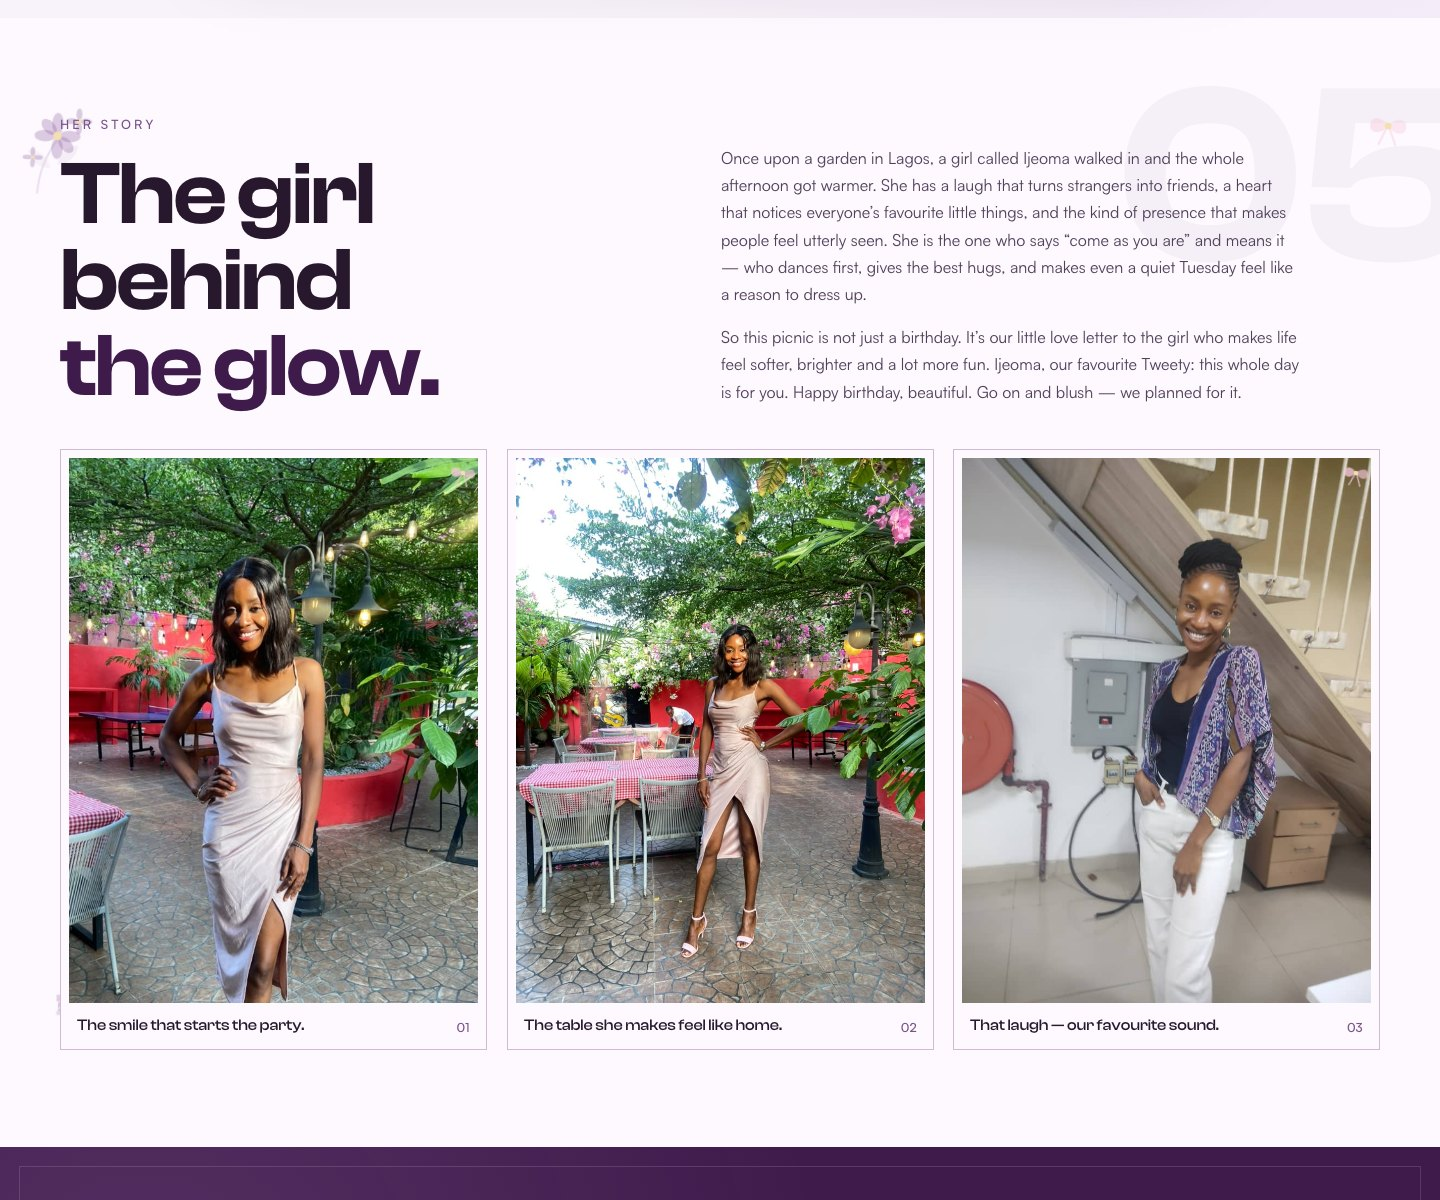
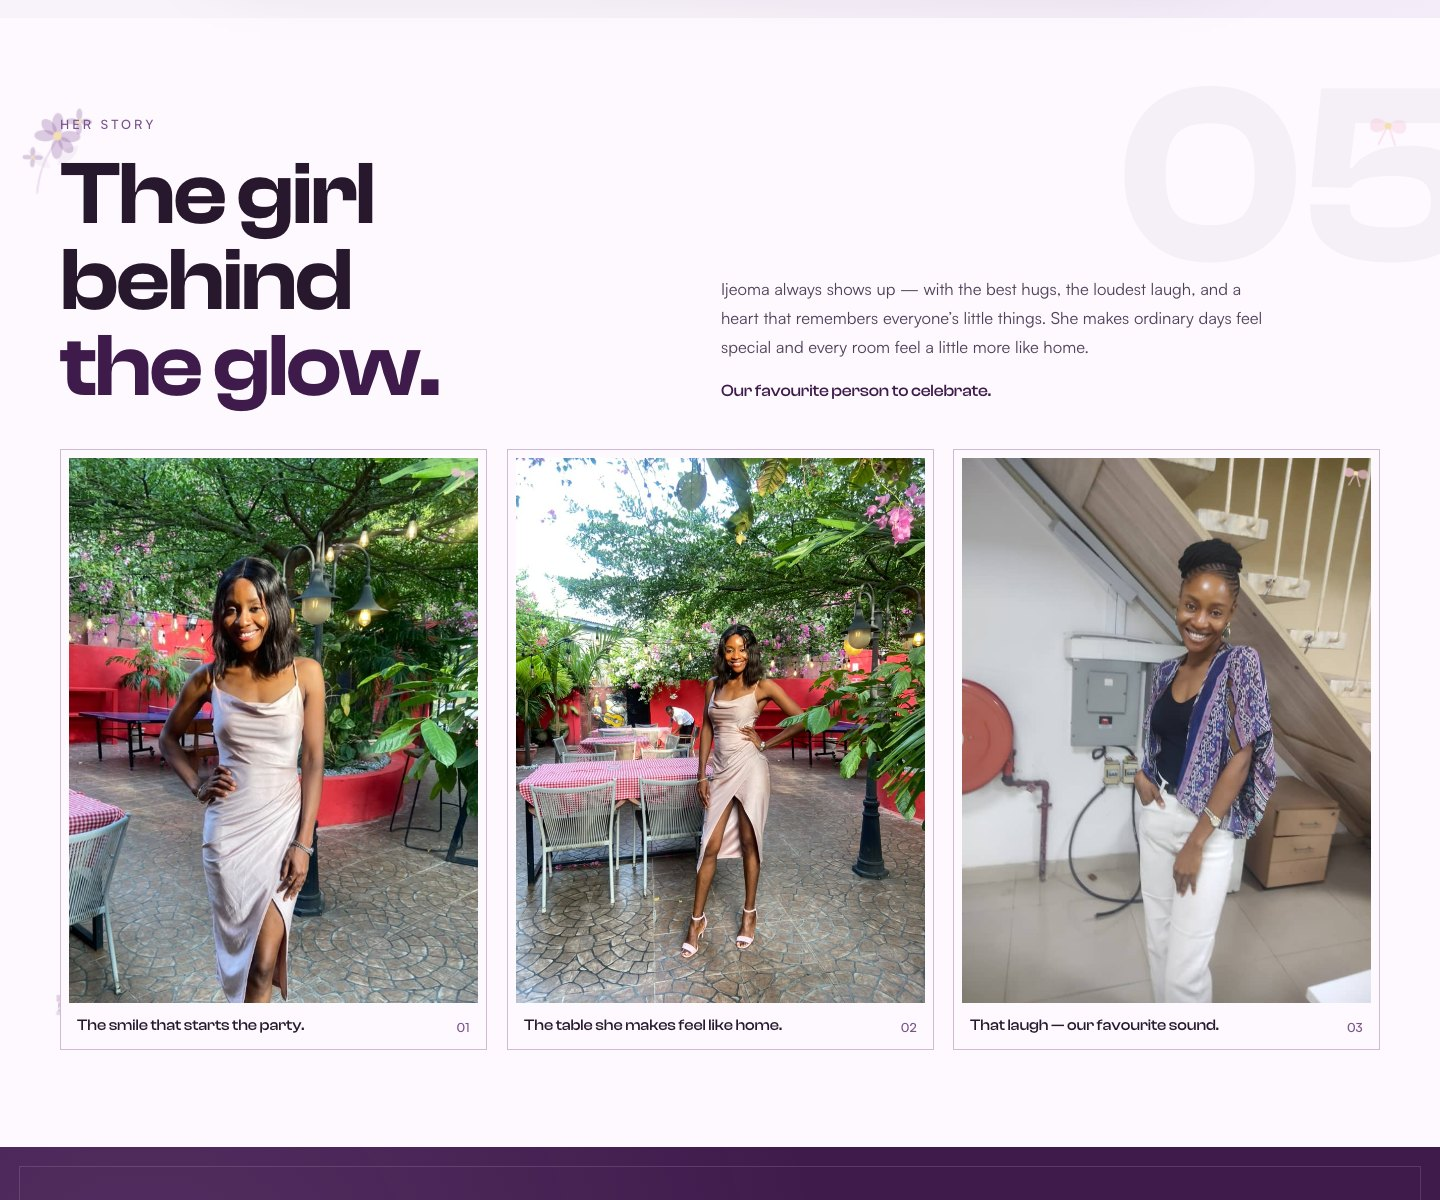
Shorten story to a few cute attributes

Changed region(s): [[0.5, 0.1233, 0.9062, 0.3392]]

diff --git a/src/components/Story.jsx b/src/components/Story.jsx
@@ -39,20 +39,14 @@ export default function Story() {
               <span className="text-plum">the glow.</span>
             </h2>
           </Reveal>
-          <Reveal as="div" delay={100} className="max-w-[580px] pb-1">
-            <p className="text-[1rem] leading-[1.7] text-ink-soft">
-              Once upon a garden in Lagos, a girl called Ijeoma walked in and the
-              whole afternoon got warmer. She has a laugh that turns strangers into
-              friends, a heart that notices everyone’s favourite little things, and
-              the kind of presence that makes people feel utterly seen. She is the
-              one who says “come as you are” and means it — who dances first, gives the
-              best hugs, and makes even a quiet Tuesday feel like a reason to dress up.
+          <Reveal as="div" delay={100} className="max-w-[560px] pb-1">
+            <p className="text-[1.04rem] leading-[1.75] text-ink-soft">
+              Ijeoma always shows up — with the best hugs, the loudest laugh, and a
+              heart that remembers everyone’s little things. She makes ordinary days
+              feel special and every room feel a little more like home.
             </p>
-            <p className="mt-4 text-[1rem] leading-[1.7] text-ink-soft">
-              So this picnic is not just a birthday. It’s our little love letter to
-              the girl who makes life feel softer, brighter and a lot more fun.
-              Ijeoma, our favourite Tweety: this whole day is for you. Happy
-              birthday, beautiful. Go on and blush — we planned for it.
+            <p className="mt-4 font-serif text-[1.05rem] font-medium tracking-[-0.01em] text-plum">
+              Our favourite person to celebrate.
             </p>
           </Reveal>
         </div>
